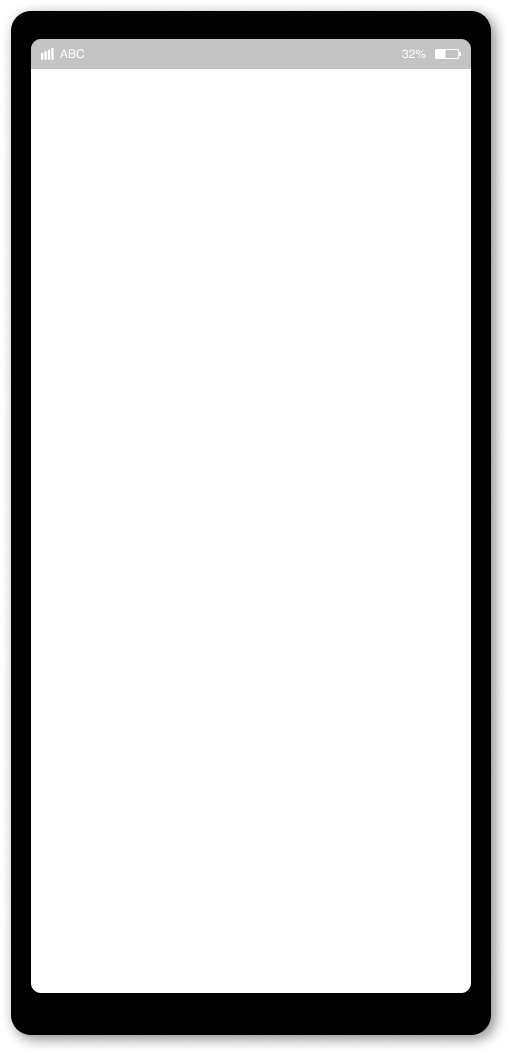
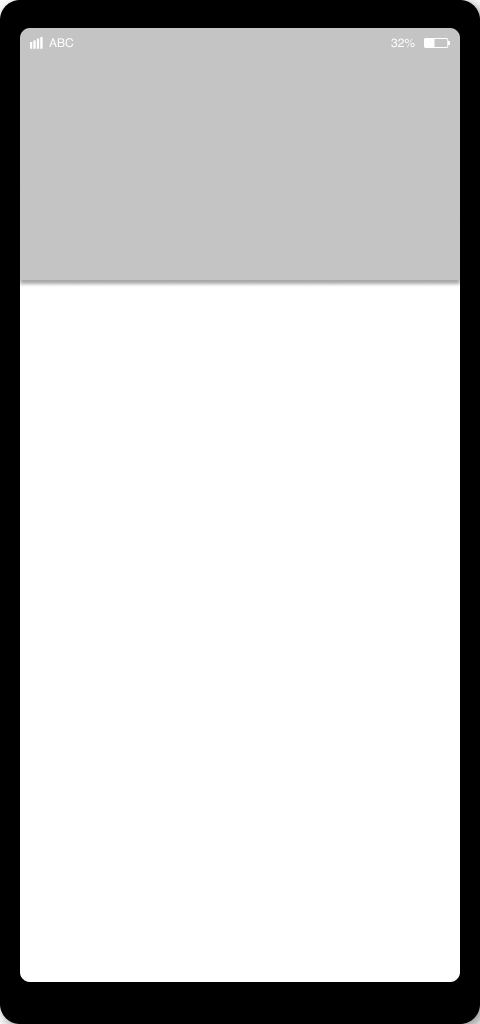
todo list

diff --git a/client/phone.js b/client/phone.js
@@ -1,20 +1,76 @@
 const PUXI = require('@puxi/core');
 const background = PIXI.Texture.from(require('./res/phone.png'));
 const news_background = PIXI.Texture.from(require('./res/alarm.png'));
+const target_item = PIXI.Texture.from(require('./res/target_item.png'));
+const target_item_highlight = PIXI.Texture.from(require('./res/target_item_highlight.png'));
 const ScrollContainer = require('./scroll_container').default;
-const last = require('lodash/last');
+const ProgressBar = require('./progress_bar').default;
+const map = require('lodash/map');
+const filter = require('lodash/filter');
+const includes = require('lodash/includes');
+const target_data = require('./target.json');
+const action_data = require('./action.json');
+const { data: building_data, textures: building_textures, ui_data: building_ui_data } = require('./building');
 
 class Alarm extends PIXI.Sprite {
   constructor(title) {
     super(news_background);
 
-    this.tint = 0xffffff;
     this.title = new PIXI.Text(title, {
       fontWeight: '500',
       fontSize: 20,
     });
     this.title.position.set(27, 32);
     this.addChild(this.title);
+  }
+}
+
+class TargetItem extends PIXI.Sprite {
+  constructor(id) {
+    super(target_item);
+
+    const data = target_data[id];
+
+    this.title = new PIXI.Text(data.target_name, {
+      fontSize: 20,
+      fontWeight: 700
+    });
+    this.title.position.set(95, 27);
+    this.addChild(this.title);
+
+    const actions = map(filter(action_data, (o) => includes(o.targets, id)), o => o.action_id);
+    const buildings = filter(building_data, o => {
+      for (const action of actions) {
+        if (includes(o.actions, action)) {
+          return true;
+        }
+      }
+
+      return false;
+    });
+    buildings.sort();
+    map(buildings, (building, idx) => {
+      const cont = new PIXI.Container();
+      const bg = new PIXI.Graphics();
+      bg.beginFill(0xECECEC, 1);
+      bg.drawRect(0, 0, 50, 50);
+      cont.addChild(bg);
+      const sprt = new PIXI.Sprite(building_textures[building_ui_data[building.building_id].name]);
+      sprt.anchor.set(0.5, 0.5);
+      sprt.position.set(25, 25);
+      console.log(sprt.height);
+      const scale = 48 / Math.max(sprt.width, sprt.height);
+      sprt.scale.set(scale, scale);
+      cont.addChild(sprt);
+      cont.cacheAsBitmap = true;
+      cont.position.set(95 + idx * (16 + 50), 67);
+      this.addChild(cont);
+    });
+  }
+
+  setComplete() {
+    this.texture = target_item_highlight;
+    this.title.style.fill = '#4A9692';
   }
 }
 
@@ -33,7 +89,16 @@ export default class Phone extends PIXI.Sprite {
       leg_type: null,
     };
 
-    this.innerView = new ScrollContainer(52, 308, 440, 702, 218);
+    this.title = new PIXI.Text('', {
+      fontWeight: 700,
+      fontSize: 20,
+      align: 'center',
+    });
+    this.title.position.set(240, 95);
+    this.title.anchor.set(0.5, 0);
+    this.addChild(this.title);
+
+    this.innerView = new ScrollContainer(31, 286, 440, 688, 218);
     this.addChild(this.innerView.po);
   }
 
@@ -46,5 +111,42 @@ export default class Phone extends PIXI.Sprite {
   addMontage(montage) {
     Object.assign(this.montage, montage);
     console.log(montage);
+  }
+
+  initTodo(todo) {
+    this.innerView.itemHeight = 154;
+    this.targets = new Map();
+    this.title.text = `${todo.todo_name} 임무 수행 가이드`;
+    this.percentage = new PIXI.Text('0%', {
+      fontWeight: 700,
+      fontSize: 60,
+    });
+
+    this.completed = 0;
+    this.percentage.position.set(160, 135);
+    this.addChild(this.percentage);
+
+    this.progress_bar = new ProgressBar();
+    this.progress_bar.position.set(160, 208);
+    this.progress_bar.resize(280, 27, 0xC4C4C4, 0x626262, 0x7E7E7E, 4);
+
+    this.addChild(this.progress_bar);
+
+    for (const target of todo.targets) {
+      const target_item = new TargetItem(target);
+      this.innerView.addItem(target_item);
+      this.targets.set(target, target_item);
+    }
+  }
+
+  completeTarget(target_id) {
+    const target = this.targets.get(target_id);
+    if (target) {
+      this.completed++;
+      target.setComplete();
+      const progress = this.completed / this.targets.size;
+      this.percentage.text = `${Math.round(progress * 100)}%`
+      this.progress_bar.setProgress(progress);
+    }
   }
 }

diff --git a/server/main.js b/server/main.js
@@ -6,12 +6,14 @@ const xkcdp = new require('xkcd-password')();
 const WebSocket = require('ws');
 const url = require('url');
 const random = require('lodash/random');
+const sample = require('lodash/sample');
 const sampleSize = require('lodash/sampleSize');
 const pick = require('lodash/pick');
 const keys = require('lodash/keys');
 const values = require('lodash/values');
 const last = require('lodash/last');
 const every = require('lodash/every');
+const flatten = require('lodash/flatten');
 const EventEmitter3 = require('eventemitter3');
 
 const pass_options = {
@@ -157,8 +159,10 @@ lobby_wss.on('connection', async (ws, req) => {
         const todo = sample(JSON.parse(fs.readFileSync(path.join(process.cwd(), 'data/todo.json'))));
         if (game_data[0].role === 'found') {
           game_data[0].data.todo = todo;
+          game_data[0].data.completed_targets = [];
         } else {
           game_data[1].data.todo = todo;
+          game_data[1].data.completed_targets = [];
         }
         function createMontage() {
           return {
@@ -182,7 +186,6 @@ lobby_wss.on('connection', async (ws, req) => {
 })
 
 const fs = require('fs');
-const { sample } = require('lodash');
 
 game_wss.on('connection', (ws, req) => {
   const { game_id, user_name } = url.parse(req.url, true).query;
@@ -255,6 +258,7 @@ game_wss.on('connection', (ws, req) => {
       }
       case 'target_noti':
         game[2].targets.push(parse_data);
+        user_data.data.completed_targets.push(...parse_data.targets);
         other_user.ws?.send(data);
         checkCapture();
         break;
@@ -267,9 +271,9 @@ game_wss.on('connection', (ws, req) => {
   });
   ws.on('close', () => {
     user_data.ws = null;
-    if (other_user.ws == null) {
-      games.remove(game_id);
-    }
+    // if (other_user.ws == null) {
+    //   games.delete(game_id);
+    // }
   })
 
   function init() {
@@ -294,7 +298,7 @@ game_wss.on('connection', (ws, req) => {
     }
     other_user.ws?.send(JSON.stringify({
       type: 'tick_req',
-    }))
+    }));
   }
 });
 

diff --git a/client/map.js b/client/map.js
@@ -1,6 +1,5 @@
 const PIXI = require('pixi.js');
 const clamp = require('lodash/clamp');
-const mapValues = require('lodash/mapValues');
 const Player = require('./player').default;
 const MoveDialog = require('./move_dialog').default;
 const FoundActionDialog = require('./found_action_dialog').default;
@@ -8,13 +7,8 @@ const LostActionDialog = require('./lost_action_dialog').default;
 const pick = require('lodash/pick');
 const values = require('lodash/values');
 const eventemitter = require('eventemitter3');
+const { textures: building_textures, ui_data: building_ui_data, data: building_data } = require('./building');
 
-const buildings = mapValues(
-  require('./res/building/*.png'),
-  (v) => PIXI.Texture.from(v)
-);
-const building_ui_data = require('./res/building/id.json');
-const building_data = require('./building.json');
 const action_data = require('./action.json');
 const target = require('./target.json');
 
@@ -66,7 +60,7 @@ export default class Map extends eventemitter {
     /** @member {PIXI.Graphics[]} */
     this.nodes = data.nodes.map((node_info, idx) => {
       const data = building_ui_data[node_info.building_id];
-      const node = new PIXI.projection.Sprite2d(buildings[data.name]);
+      const node = new PIXI.projection.Sprite2d(building_textures[data.name]);
       node.proj.affine = PIXI.projection.AFFINE.AXIS_X;
       node.rotation = Math.PI / 4;
       node.anchor.set(0.5, 1);
@@ -180,7 +174,7 @@ export default class Map extends eventemitter {
     for (const node of this.nodes) {
       node.buttonMode = node.interactive = false;
     }
-    this.root.removeChild(this.action_dialog.root);
+    this.wrap.removeChild(this.action_dialog.root);
 
     setTimeout(() => {
       this.emit('target_noti', action.targets, this.player.current_node, action.montage_part_init, action.montage_part_decay * 1000, action.delay_post * 1000);

diff --git a/client/found_action_dialog.js b/client/found_action_dialog.js
@@ -46,17 +46,17 @@ export default class ActionDialog extends EventEmitter {
       if (this.action_labels[i]) {
         action_label = this.action_labels[i];
         action_label.text = action.action_name;
+        action_label.removeAllListeners();
       } else {
         action_label = new PIXI.Text(action.action_name);
         action_label.interactive = true;
         action_label.buttonMode = true;
         this.action_labels.push(action_label);
-        const action_id = action.action_id;
-        action_label.on('pointertap', () => {
-          this.emit('do', action_id);
-          this.root.parent.removeChild(this.root);
-        });
       }
+      const action_id = action.action_id;
+      action_label.on('pointertap', () => {
+        this.emit('do', action_id);
+      });
       action_label.updateText();
       action_label.position.set(20, height);
       this.root.addChild(action_label);

diff --git a/client/game.js b/client/game.js
@@ -64,6 +64,9 @@ ws.addEventListener('message', (message) => {
         }));
       });
       map.on('target_noti', (targets, node, montage_init, montage_decay, post_delay) => {
+        for (const t of targets) {
+          phone.completeTarget(t);
+        }
         ws.send(JSON.stringify({
           type: 'target_noti',
           targets,
@@ -81,6 +84,14 @@ ws.addEventListener('message', (message) => {
           time: timer.remain,
         }));
       });
+      if (data.user_data.todo) {
+        phone.initTodo(data.user_data.todo);
+      }
+      if (data.user_data.completed_targets) {
+        for (const target of data.user_data.completed_targets) {
+          phone.completeTarget(target);
+        }
+      }
       timer.once('end', () => ws.send(JSON.stringify({
         type: 'end',
       })));

diff --git a/client/building.js b/client/building.js
@@ -1,0 +1,9 @@
+const PIXI = require('pixi.js');
+const mapValues = require('lodash/mapValues');
+
+export const textures = mapValues(
+  require('./res/building/*.png'),
+  (v) => PIXI.Texture.from(v)
+);
+export const ui_data = require('./res/building/id.json');
+export const data = require('./building.json');
